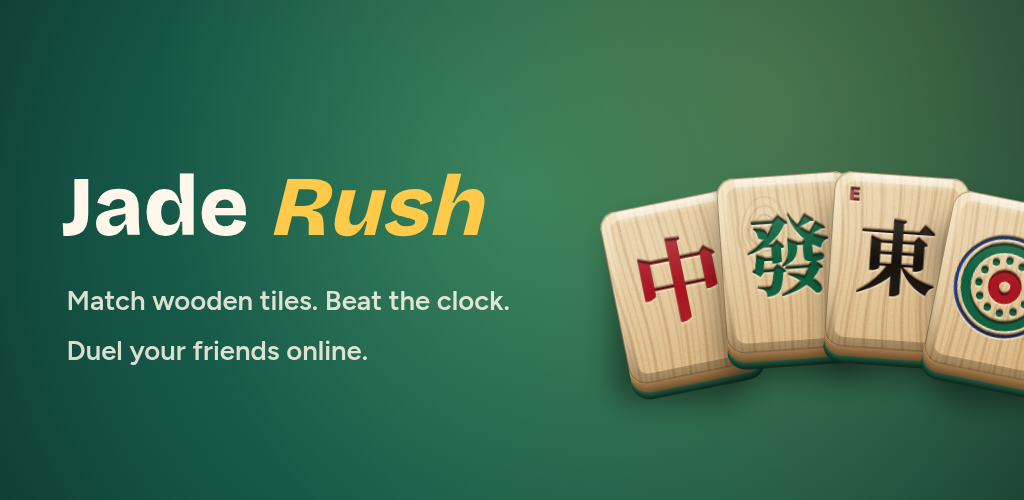
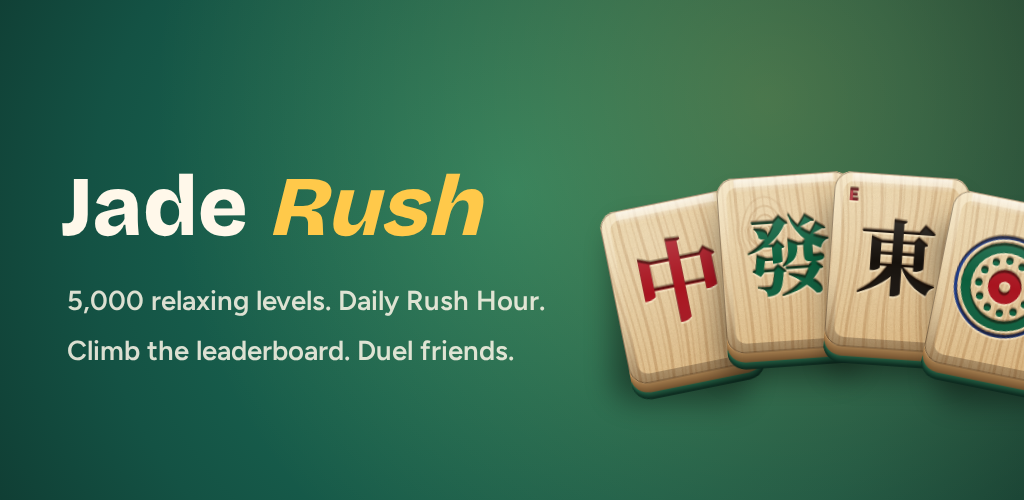
Feature graphic: new tagline for 1.1 (no clock; Rush Hour and leaderboards)
Claude-Session: https://claude.ai/code/session_01EkeiXTE48ShaBsSoMYnojM

diff --git a/tools/art.html b/tools/art.html
@@ -47,8 +47,8 @@ window.render = async function (mode, size, h) {
     g.font = 'italic 800 ' + H * 0.17 + 'px "Bricolage Grotesque"'; g.fillStyle = '#ffc94a';
     g.fillText('Rush', W * 0.06 + g.measureText('Jade ').width, H * 0.47);
     g.font = '600 ' + H * 0.055 + 'px Figtree'; g.fillStyle = 'rgba(255,248,234,0.85)';
-    g.fillText('Match wooden tiles. Beat the clock.', W * 0.065, H * 0.62);
-    g.fillText('Duel your friends online.', W * 0.065, H * 0.72);
+    g.fillText('5,000 relaxing levels. Daily Rush Hour.', W * 0.065, H * 0.62);
+    g.fillText('Climb the leaderboard. Duel friends.', W * 0.065, H * 0.72);
     return;
   }
   if (mode === 'splash-full') {
